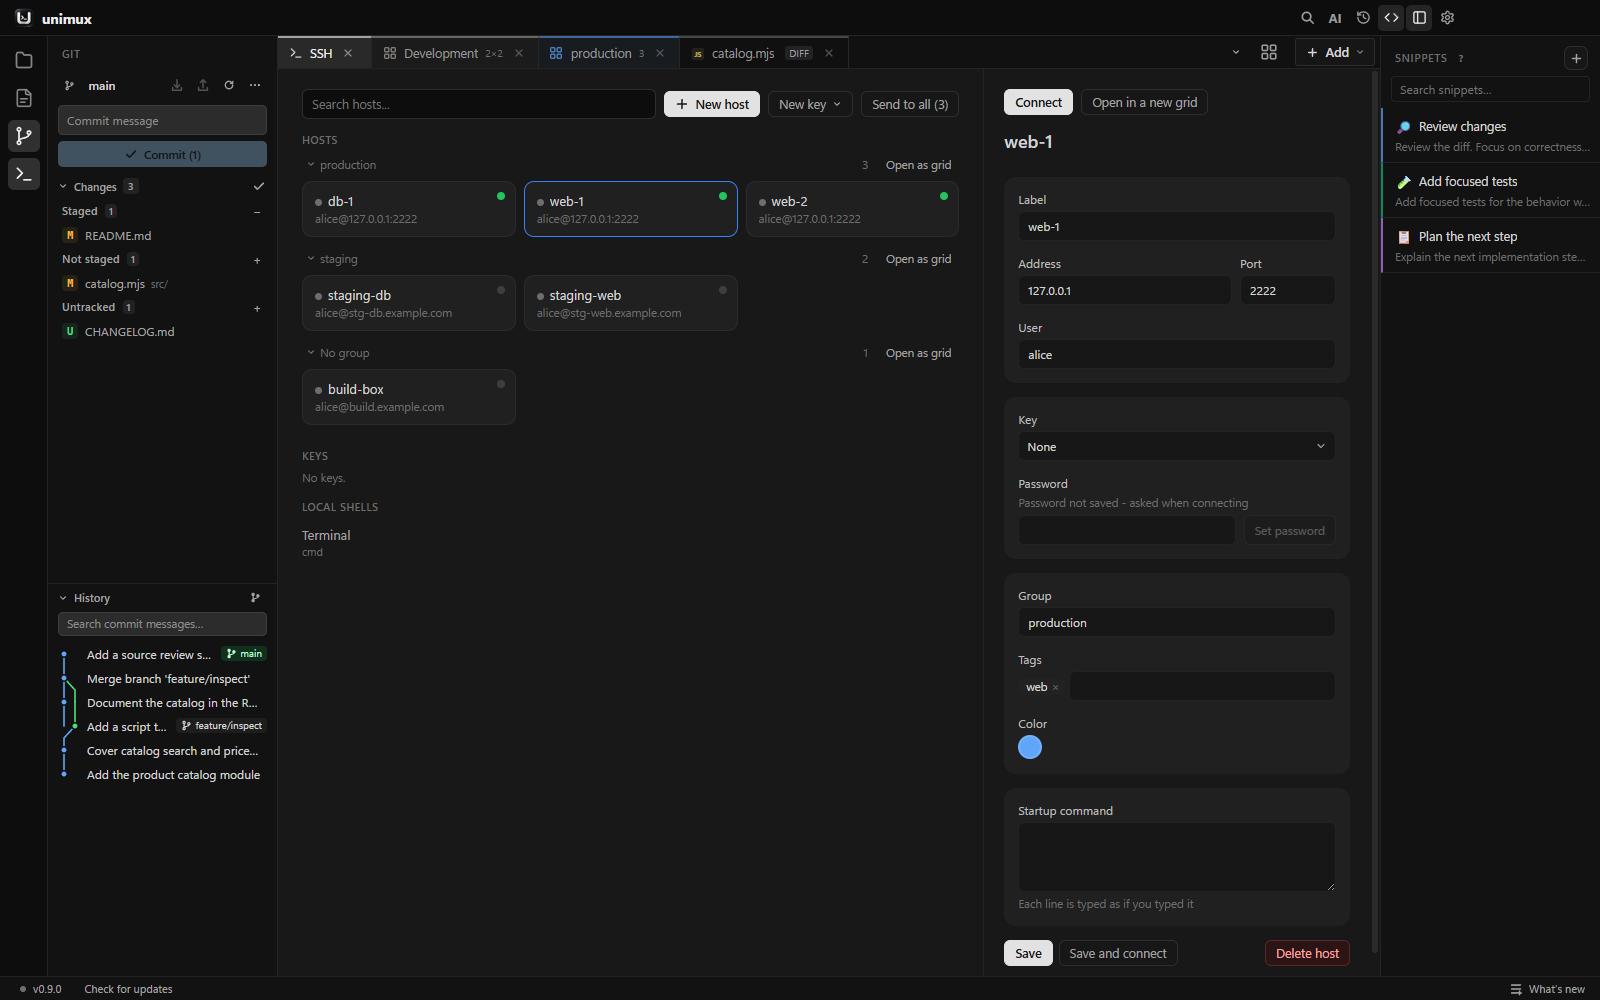
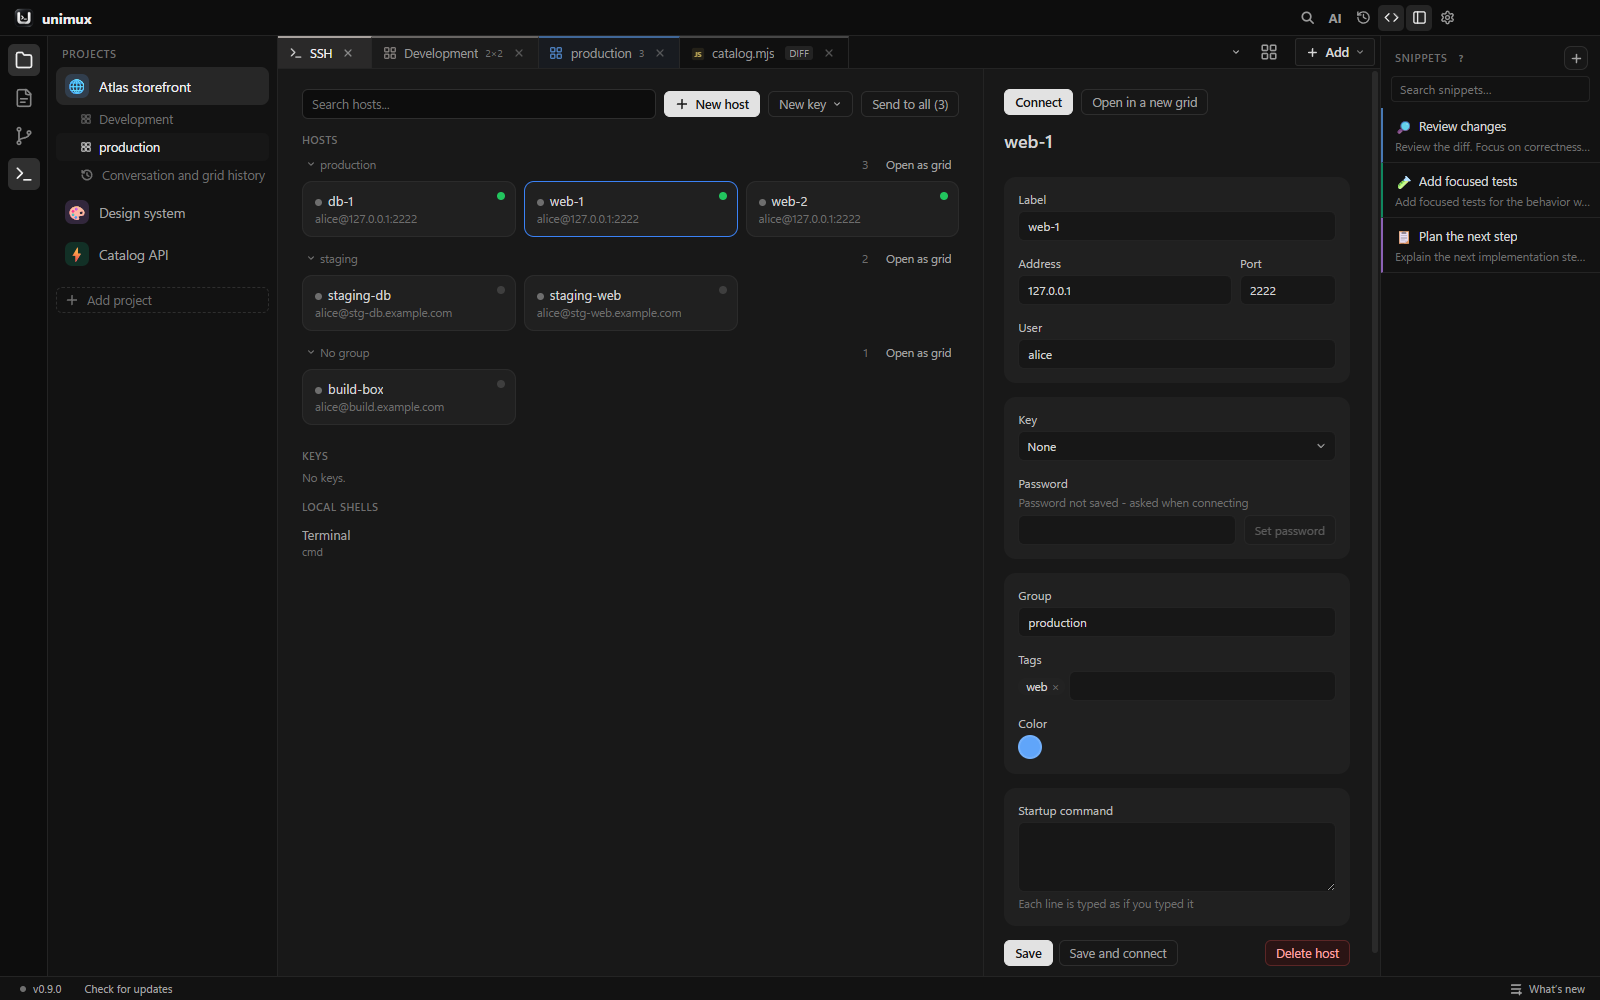
docs: cswap copies, main card re-login and detection timing in ALERTS and the 0.9.1 notes; SSH screenshot beside the project list

Changed region(s): [[0.0, 0.031, 0.1875, 0.341], [0.0312, 0.589, 0.1875, 0.775]]

diff --git a/docs/ALERTS.md b/docs/ALERTS.md
@@ -40,13 +40,13 @@ The hook address (a per-run token plus a per-start nonce) is part of the launch 
 
 The **AI account limits** panel shows the 5-hour and weekly limits of every Claude account the app knows and of Codex. Every account has exactly one card; the one signed in to Claude Code is marked **main**. Accounts are identified by their Anthropic account and organization ids, the e-mail is only a label.
 
-- **Signed in somewhere else.** When another tool (for example cswap) or `claude /login` switches the Claude Code sign-in, the app notices it within a few seconds: the new account gets its card (or is added), the account that left keeps its card with a note, and the app never renews a copy of a sign-in that another tool may hold. A second copy of the same account is set aside instead of shown twice, and nothing is deleted without asking.
+- **Signed in somewhere else.** When another tool (for example cswap) or `claude /login` switches the Claude Code sign-in, the app notices it within about 20 seconds while the limits panel is on and the window is visible (otherwise at the next read of the limits): the new account gets its card (or is added), the account that left keeps its card with a note, and the app never renews a copy of a sign-in that another tool may hold. A second copy of the same account is set aside instead of shown twice, and nothing is deleted without asking.
 - **Make main account** saves the current main sign-in on its card first and then writes the selected account into Claude Code, holding Claude Code's own lock files so neither Claude Code nor cswap can write at the same moment. Open Claude sessions normally pick up the new sign-in on their next message (a session that does not can be restarted or resumed).
-- **Sign in again** only renews the account of that card: if the browser signs in a different account, nothing is changed and you can add that account as a new one.
+- **Sign in again** on a saved card only renews the account of that card: if the browser signs in a different account, nothing is changed and you can add that account as a new one. On the **main** card it signs Claude Code in again: whichever account the browser signs in becomes the main account, and the previous main sign-in is saved on its card first.
 - **Access denied (HTTP 403)**, for example a paused subscription, is shown as such; signing in again would not help.
 - The limits of each account are read at most every 3 minutes, with the app's own client name, and a rate limit is always waited out (with a safety margin).
-- Account copies that cswap also lists (including cards created by 0.9.0) are never renewed by the app, because cswap may hold the same sign-in. Sign in to such a card again once to make it app-owned.
+- The app never renews a copy of a sign-in that cswap also holds (every card cswap lists whose sign-in came from Claude Code, including cards created by 0.9.0 and accounts that were main before), because renewing it would invalidate cswap's copy. **Make main account** still works for such a card while its copy is fresh: only the files are moved, without contacting the sign-in server. When the copy would need renewing, the app says so: switch to that account with cswap, or sign in to it again here.
 
-If a swap is interrupted, the app keeps an emergency copy, blocks further swaps and asks you to check both accounts. After you clear the warning, sign in again to any account that stopped working (a Claude sign-in is always possible again). When the app cannot finish the recovery itself, the outgoing account stays marked as switched out until you sign in to it again.
+If a swap is interrupted, the app keeps an emergency copy, blocks further swaps and asks you to check both accounts. After you clear the warning, sign in again to any account that stopped working (a Claude sign-in is always possible again). When the app could not finish the recovery itself and the swap may already have written the new sign-in, clearing the warning marks the outgoing account as switched out, and its card keeps its own saved sign-in: the app does not copy the Claude Code sign-in onto it until that sign-in changes or you sign in to the card again.
 
 Not available on macOS, where Claude keeps its login in the Keychain (saved accounts cannot be added there either).

diff --git a/docs/releases/0.9.1.md b/docs/releases/0.9.1.md
@@ -2,11 +2,11 @@
 
 - **SSH view.** The SSH tile now opens a view in the main area instead of a narrow list: hosts as tiles by group with their connection state, your keys and local shells, and a details pane to edit a host or key, connect it or open it in a new grid. Select several hosts or a whole group to open them as one SSH grid, and add SSH cells to any grid from the Add menu or a cell's menu.
 - **AI accounts.** Every Claude account now has one card, identified by its Anthropic account and organization, and the main account is simply the one signed in to Claude Code:
-  - Switching accounts with another tool (for example cswap) or `claude /login` is noticed right away: no duplicate cards, no account silently dropped, and the app never renews a copy of a sign-in that another tool may hold, which caused false "sign-in expired" cards.
+  - Switching accounts with another tool (for example cswap) or `claude /login` is noticed within about 20 seconds while the limits panel is on and the window is visible: no duplicate cards, no account silently dropped, and the app never renews a copy of a sign-in that another tool may hold, which caused false "sign-in expired" cards.
   - Make main account saves the outgoing sign-in first and writes the new one while holding Claude Code's lock files.
-  - Sign in again refuses to turn a card into a different account.
+  - Sign in again refuses to turn a saved card into a different account; on the main card it signs Claude Code in again, makes the signed-in account main and saves the previous main sign-in on its card first.
   - Access denied (HTTP 403, for example a paused subscription) is no longer shown as an expired sign-in; limits are read at most every 3 minutes per account with the app's own client name, and rate limits are waited out with a margin.
-  - Account copies that cswap also lists (including cards created by 0.9.0) are never renewed by the app; sign in to such a card again once to make it app-owned.
-  - After an interrupted swap that the app could not recover on its own, the outgoing account stays marked as switched out until you sign in to it again.
+  - The app never renews a copy of a sign-in that cswap also holds (including cards created by 0.9.0). Make main account still works for such a card while its copy is fresh, moving only the files; otherwise switch to it with cswap or sign in to it again.
+  - After an interrupted swap that the app could not recover on its own, clearing the warning marks the outgoing account as switched out, and its card keeps its own saved sign-in until the Claude Code sign-in changes or you sign in to the card again.
 - **Status.** A Claude cell no longer reports "waiting for you" while a dynamic workflow is still running; it alerts once when Claude's next turn ends.
 - **SSH fixes.** The "connecting" line always comes before the server greeting, and a key that cannot sign falls back to the saved password or the password prompt instead of ending the session. SSH sessions are still not restored after a restart of the app.
